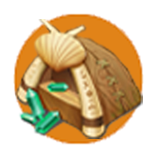
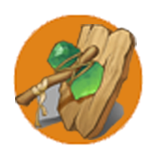
changes
changes

diff --git a/lib/Src/pages/userInfo/userResourceDetail.dart b/lib/Src/pages/userInfo/userResourceDetail.dart
@@ -1,0 +1,85 @@
+import 'package:flutter/material.dart';
+import 'package:flutter_screenutil/flutter_screenutil.dart';
+import 'package:upgradegame/Common/app/config.dart';
+import 'package:upgradegame/Src/route/application.dart';
+import 'package:upgradegame/Src/route/upgradegame_route.dart';
+import 'package:upgradegame/Common/widget/imageText/imageText.dart';
+import 'package:upgradegame/Common/widget/imageTextButton/imageTextButton.dart';
+
+class UserResourceDetail extends StatefulWidget {
+  @override
+  String imageUrl;
+  String amountCash;
+  VoidCallback withdrawCallback;
+  UserResourceDetail({Key key,this.amountCash,this.imageUrl,this.withdrawCallback}):super(key:key);
+  _UserResourceDetailState createState() => new _UserResourceDetailState();
+}
+
+class _UserResourceDetailState extends State<UserResourceDetail> {
+
+  @override
+  Widget build(BuildContext context) {
+    return new Container(
+      child: new Row(
+        children: <Widget>[
+          new Column(
+            children: <Widget>[
+              Image(image: new AssetImage(this.widget.imageUrl),
+                width: ScreenUtil().setHeight(160),
+                height: ScreenUtil().setHeight(160),
+                fit: BoxFit.fill,
+              ),
+              ImageText(
+                imageUrl: "resource/images/verified.png",
+                imageHeight: ScreenUtil().setHeight(80),
+                imageWidth: ScreenUtil().setHeight(280),
+                textSize: SystemFontSize.userInfoResourceTextFontSize,
+                text: "实名认证",
+              )
+            ],
+          ),
+          new Container(
+            margin: EdgeInsets.only(left: ScreenUtil().setWidth(250)),
+            padding: EdgeInsets.only(top:ScreenUtil().setHeight(50)),
+            child: new Column(
+              children: <Widget>[
+                new Row(
+                  children: <Widget>[
+                    Image(image: new AssetImage("resource/images/cash.png"),
+                      width: ScreenUtil().setHeight(120),
+                      height: ScreenUtil().setHeight(120),
+                      fit: BoxFit.fill,
+                    ),
+                    new Container(
+                      height: ScreenUtil().setHeight(120),
+                      width: ScreenUtil().setHeight(250),
+                      decoration: new BoxDecoration(
+                        color: Color.fromRGBO(182, 145, 98, 0.7),
+                        borderRadius: BorderRadius.all(Radius.circular(8.0)),
+                      ),
+                      child: new Center(
+                        child:
+                        Text("¥" + this.widget.amountCash,textAlign: TextAlign.center,
+                            style: TextStyle(color: Colors.white,decoration: TextDecoration.none,fontSize: SystemFontSize.userInfoResourceWithdrawTextFontSize)),
+                      )
+                    )
+                  ],
+                ),
+                new ImageTextButton(
+                  imageUrl: "resource/images/withdrawCash.png",
+                  imageHeight: ScreenUtil().setHeight(150),
+                  imageWidth: ScreenUtil().setHeight(280),
+                  textSize: SystemFontSize.userInfoResourceWithdrawTextFontSize,
+                  buttonName: "提 现",
+                  callback: (){
+
+                  },
+                ),
+              ],
+            ),
+          )
+        ],
+      ),
+    );
+  }
+}

diff --git a/lib/Src/pages/userInfo/userInfo.dart b/lib/Src/pages/userInfo/userInfo.dart
@@ -6,6 +6,7 @@ import 'package:upgradegame/Common/app/config.dart';
 import 'package:upgradegame/Src/route/application.dart';
 import 'package:upgradegame/Src/route/upgradegame_route.dart';
 import 'package:upgradegame/Common/widget/imageTextButton/imageTextButton.dart';
+import 'package:upgradegame/Src/pages/userInfo/userResourceDetail.dart';
 
 class UserInfoDetail extends StatefulWidget {
   @override
@@ -26,16 +27,20 @@ class _UserInfoDetailState extends State<UserInfoDetail> {
         child: new Column(
           mainAxisAlignment: MainAxisAlignment.center,
           children: <Widget>[
+            new UserResourceDetail(
+              imageUrl: "resource/images/avatar.png",
+              amountCash: "100000",
+            ),
+            new ImageTextButton(imageUrl: "resource/images/settingButtonBackground.png",imageWidth: ScreenUtil().setWidth(900),imageHeight: ScreenUtil().setHeight(190),
+              buttonName: "账号及安全",textSize: SystemFontSize.settingTextFontSize,callback: (){
+
+              },),
             new ImageTextButton(imageUrl: "resource/images/settingButtonBackground.png",imageWidth: ScreenUtil().setWidth(900),imageHeight: ScreenUtil().setHeight(190),
               buttonName: "交易明细",textSize: SystemFontSize.settingTextFontSize,callback: (){
 
               },),
             new ImageTextButton(imageUrl: "resource/images/settingButtonBackground.png",imageWidth: ScreenUtil().setWidth(900),imageHeight: ScreenUtil().setHeight(190),
               buttonName: "提现记录",textSize: SystemFontSize.settingTextFontSize,callback: (){
-
-              },),
-            new ImageTextButton(imageUrl: "resource/images/settingButtonBackground.png",imageWidth: ScreenUtil().setWidth(900),imageHeight: ScreenUtil().setHeight(190),
-              buttonName: "攻 略",textSize: SystemFontSize.settingTextFontSize,callback: (){
 
               },),
             new ImageTextButton(imageUrl: "resource/images/settingButtonBackground.png",imageWidth: ScreenUtil().setWidth(900),imageHeight: ScreenUtil().setHeight(190),

diff --git a/lib/Common/widget/imageText/imageText.dart b/lib/Common/widget/imageText/imageText.dart
@@ -1,0 +1,44 @@
+
+import 'package:flutter/material.dart';
+import 'package:flutter_screenutil/flutter_screenutil.dart';
+import 'package:upgradegame/Common/app/config.dart';
+
+class ImageText extends StatefulWidget {
+  @override
+  String text;
+  String imageUrl;
+  double imageHeight;
+  double imageWidth;
+  double textSize;
+  ImageText({Key key,this.text = "",this.imageUrl,this.imageWidth,this.imageHeight,
+    this.textSize = 0}):super(key:key);
+  _ImageTextState createState() => new _ImageTextState();
+}
+
+class _ImageTextState extends State<ImageText> {
+
+  @override
+  Widget build(BuildContext context) {
+    if(this.widget.textSize == 0){
+      this.widget.textSize = SystemFontSize.buttonTextFontSize;
+    }
+    return new Container(
+      height: this.widget.imageHeight,
+      width: this.widget.imageWidth,
+      decoration: BoxDecoration(
+        image: DecorationImage(
+            image: AssetImage(this.widget.imageUrl),
+            fit: BoxFit.fill),
+      ),
+      child: Center(
+          child: new Column(
+            mainAxisAlignment: MainAxisAlignment.center,
+            children: <Widget>[
+              new Text(this.widget.text,textAlign: TextAlign.center
+                ,style:  TextStyle(color: Colors.white,decoration: TextDecoration.none,fontSize: this.widget.textSize),),
+            ],
+          )
+      ),
+    );
+  }
+}

diff --git a/lib/Src/pages/setting/setting.dart b/lib/Src/pages/setting/setting.dart
@@ -27,7 +27,7 @@ class _SettingDetailState extends State<SettingDetail> {
           mainAxisAlignment: MainAxisAlignment.center,
           children: <Widget>[
             new ImageTextButton(imageUrl: "resource/images/settingButtonBackground.png",imageWidth: ScreenUtil().setWidth(900),imageHeight: ScreenUtil().setHeight(190),
-              buttonName: "账号及安全",textSize: SystemFontSize.settingTextFontSize,callback: (){
+              buttonName: "攻 略",textSize: SystemFontSize.settingTextFontSize,callback: (){
 
               },),
             new ImageTextButton(imageUrl: "resource/images/settingButtonBackground.png",imageWidth: ScreenUtil().setWidth(900),imageHeight: ScreenUtil().setHeight(190),

diff --git a/lib/Src/pages/main/mainPage.dart b/lib/Src/pages/main/mainPage.dart
@@ -126,7 +126,7 @@ class _MainPageState extends State<MainPage> {
                           });
                         },),
                       new UserImageButton(size:ScreenUtil().setHeight(150),buttonName: "商城"
-                        ,textSize: SystemFontSize.operationTextFontSize,imageUrl: "resource/images/marketStore.png",callback: (){
+                        ,textSize: SystemFontSize.operationTextFontSize,imageUrl: "resource/images/marketStores.png",callback: (){
                         },),
 
                     ],

diff --git a/lib/Common/app/config.dart b/lib/Common/app/config.dart
@@ -60,6 +60,9 @@ class SystemFontSize {
   static const dividendTitleTextFontSize = 15.0;
   static const dividendContentTextFontSize = 17.5;
 
+  static const userInfoResourceTextFontSize = 11.5;
+  static const userInfoResourceWithdrawTextFontSize = 15.0;
+
 
   static const detailDialogTitleTextFontSize = 36.0;
 
